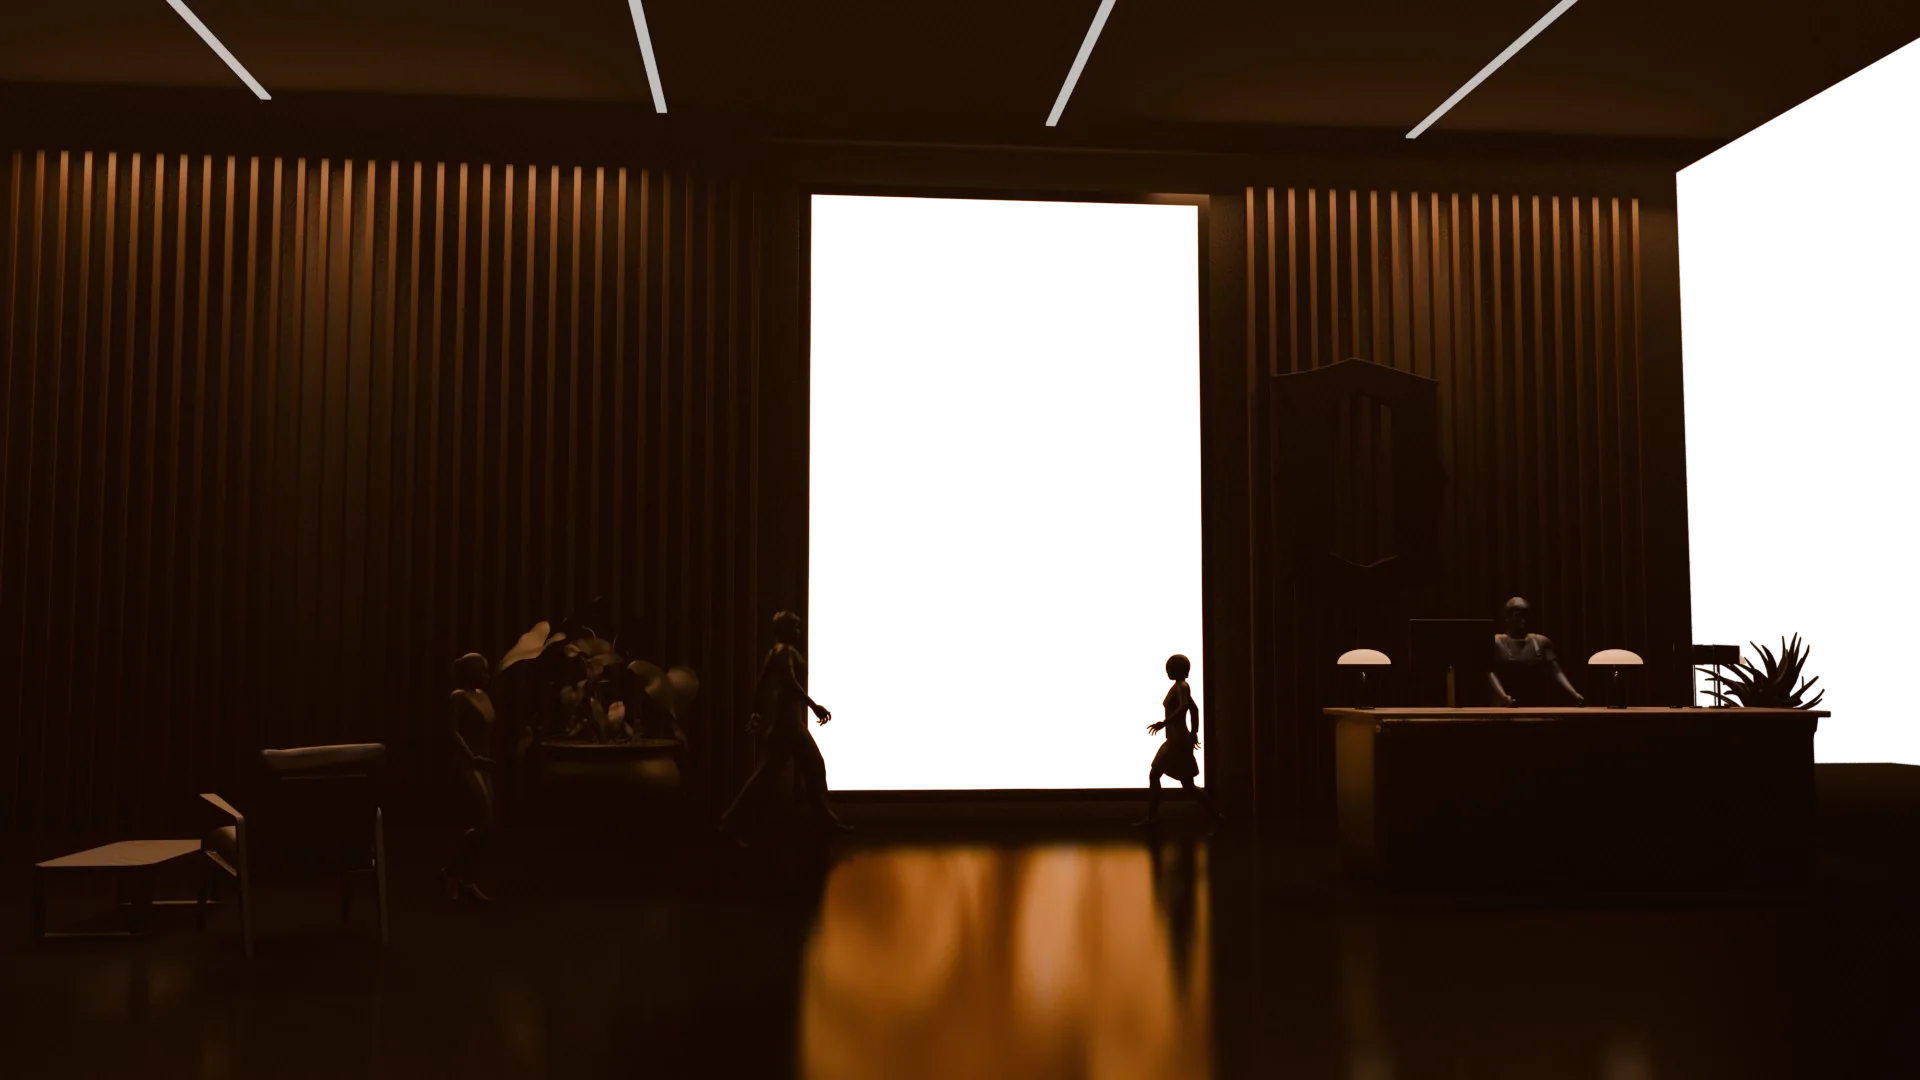
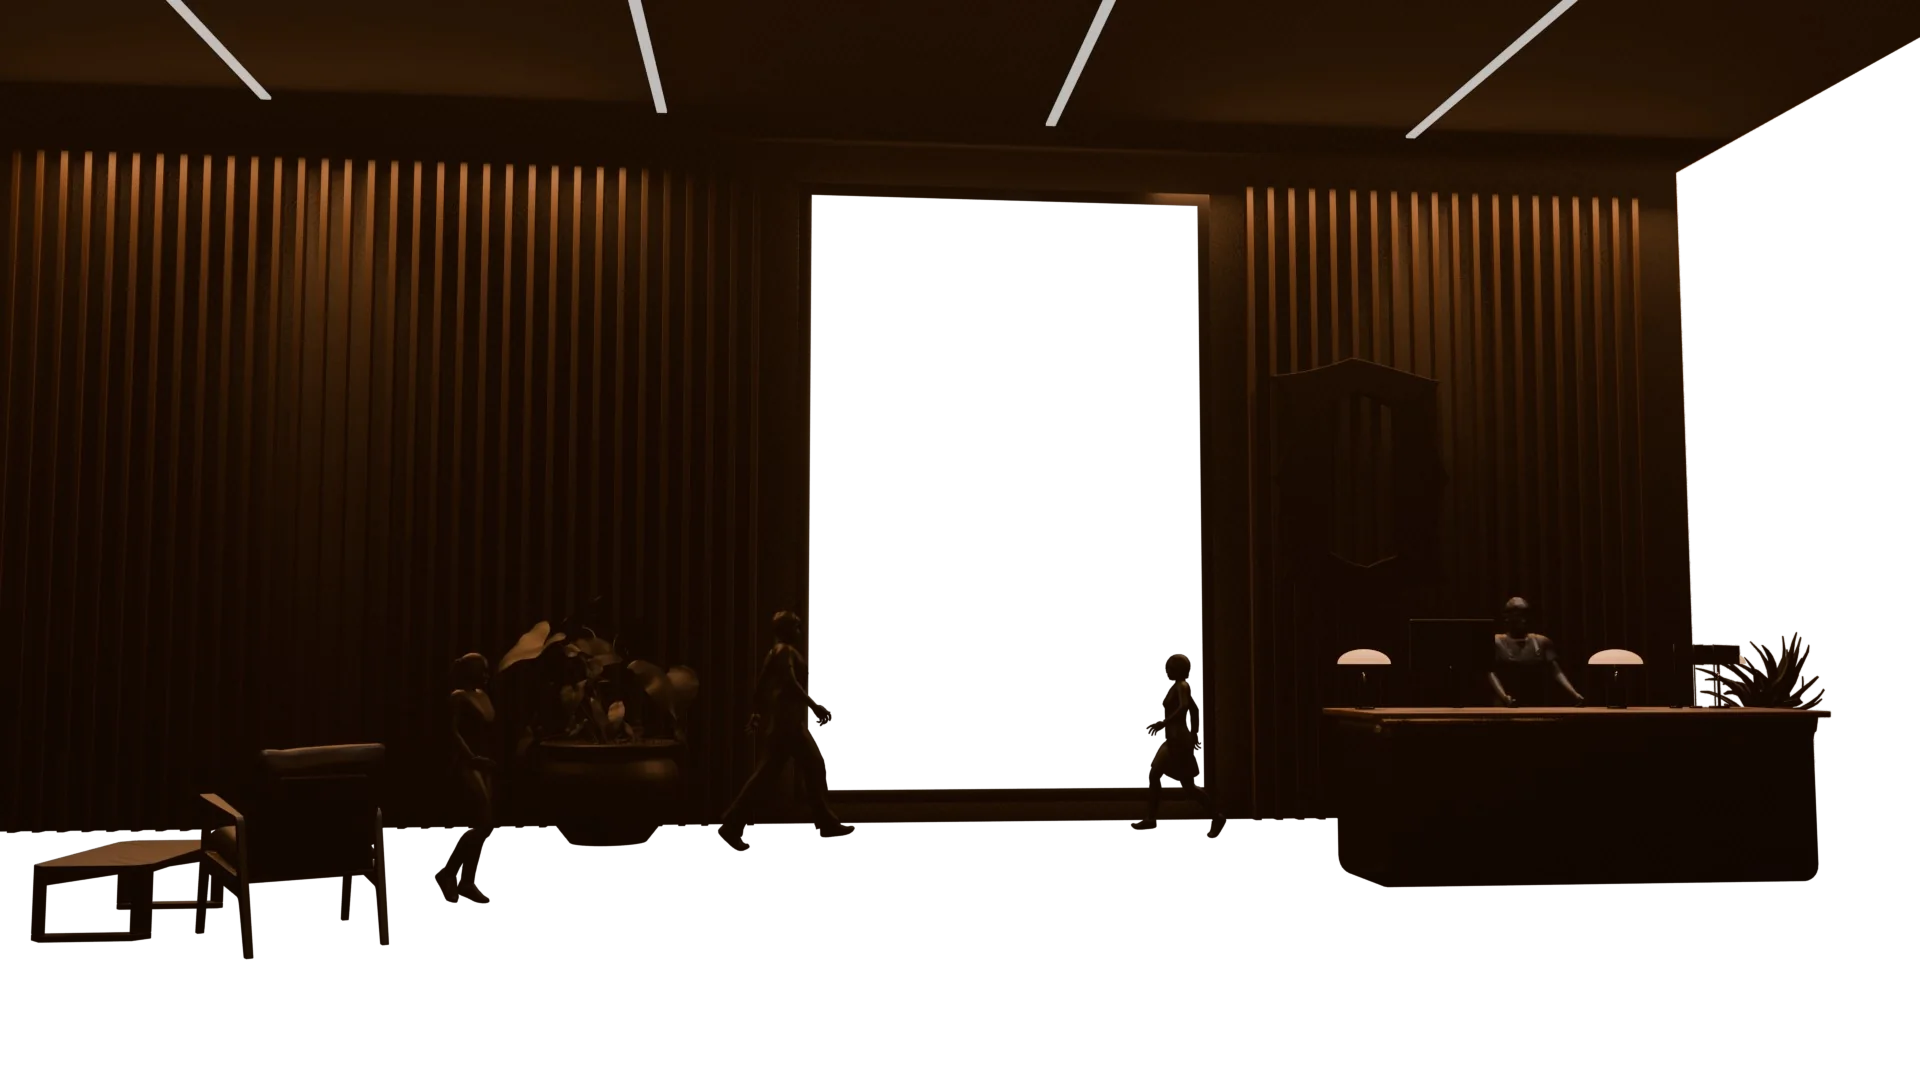
feat(venues): live floor reflection in the lobby; preload live screens so venues never arrive as stills
Claude-Session: https://claude.ai/code/session_01EeQ8xLkpjy8cAAtVKp7fEn

Changed region(s): [[0.0, 0.6417, 1.0, 1.0], [0.6875, 0.6722, 0.7188, 0.7333], [0.4062, 0.6417, 0.4375, 0.6722]]

diff --git a/src/components/sections/venue-stage.tsx b/src/components/sections/venue-stage.tsx
@@ -12,6 +12,8 @@ import { cn } from "@/lib/utils"
 const IMG_W = 1920
 const IMG_H = 1080
 /** Bounds for the box a work renders into before it is warped onto its screen. */
+/** Live screens mount this far ahead of the viewport, so they are drawn before they are seen. */
+const PRELOAD = "150% 0px"
 const MIN_W = 160
 const MAX_W = 960
 
@@ -100,7 +102,7 @@ function useSize<T extends HTMLElement>() {
   return [ref, size] as const
 }
 
-type ScreenGeom = { w: number; h: number; matrix: string; inverse: M3 }
+type ScreenGeom = { w: number; h: number; matrix: string; inverse: M3; reflection?: string }
 
 /** Size and placement of every screen of a venue in the current container. */
 function screenGeometry(venue: Venue, size: [number, number]): ScreenGeom[] {
@@ -111,7 +113,14 @@ function screenGeometry(venue: Venue, size: [number, number]): ScreenGeom[] {
     const w = Math.round(Math.min(MAX_W, Math.max(MIN_W, span * 1.2)))
     const h = Math.round(Math.min(MAX_W * 1.5, w / sc.aspect))
     const t = quadHomography(w, h, pts)
-    return { w, h, matrix: quadMatrix(w, h, pts), inverse: adj(t) }
+    const mirror = sc.reflection?.map(([u, v]) => coverPoint(u, v, size[0], size[1]))
+    return {
+      w,
+      h,
+      matrix: quadMatrix(w, h, pts),
+      inverse: adj(t),
+      reflection: mirror && quadMatrix(w, h, mirror),
+    }
   })
 }
 
@@ -155,7 +164,9 @@ export function VenueStage({
   const motion = useMotion()
   const [ref, size] = useSize<HTMLDivElement>()
   const pointer = useRef<WorkPointer>({ x: 0, y: 0, on: false })
-  const geom = useMemo(() => (size ? screenGeometry(venues[active]!, size) : null), [size, active])
+  // Geometry for every venue, so neighbours can be mounted ahead of time.
+  const geoms = useMemo(() => (size ? venues.map((v) => screenGeometry(v, size)) : null), [size])
+  const geom = geoms?.[active] ?? null
 
   useEffect(() => {
     if (!motion || !geom) return
@@ -201,16 +212,59 @@ export function VenueStage({
             loading={i === 0 ? "eager" : "lazy"}
             decoding="async"
           />
-          {motion && geom && i === active && (
+          {/* The venue on show and its neighbours keep live layers mounted (only the one on show
+              animates), so a scene never arrives with a still where its live screens should be. */}
+          {motion && geoms && Math.abs(i - active) <= 1 && (
             <>
+              {v.base && (
+                // eslint-disable-next-line @next/next/no-img-element
+                <img
+                  src={v.base}
+                  alt=""
+                  className="absolute inset-0 size-full object-cover"
+                  decoding="async"
+                />
+              )}
+              {/* Live floor reflections: the same field, mirrored, blurred and fading away. */}
+              {v.screens.map((sc, k) =>
+                geoms[i]![k]!.reflection ? (
+                  <div
+                    key={`${sc.name}-reflection`}
+                    className="absolute top-0 left-0 origin-top-left mix-blend-screen"
+                    style={{
+                      width: geoms[i]![k]!.w,
+                      height: geoms[i]![k]!.h,
+                      transform: geoms[i]![k]!.reflection,
+                      filter: "blur(14px) brightness(1.5) saturate(1.15)",
+                      opacity: 0.7,
+                      // Fades with distance from the screen, and softly at the sides.
+                      maskImage:
+                        "linear-gradient(to bottom, transparent 35%, black 100%), linear-gradient(to right, transparent, black 18%, black 82%, transparent)",
+                      maskComposite: "intersect",
+                    }}
+                  >
+                    <GenerativeWork
+                      work={sc.work}
+                      seed={v.seed}
+                      brandColors={v.colors}
+                      domain={sc.domain}
+                      pointer={i === active ? pointer : undefined}
+                      animate={i === active}
+                      preloadMargin={PRELOAD}
+                      poster={false}
+                      className="size-full bg-transparent"
+                    />
+                  </div>
+                ) : null,
+              )}
               {v.screens.map((sc, k) => (
                 <div
                   key={sc.name}
                   className="absolute top-0 left-0 origin-top-left saturate-125"
                   style={{
-                    width: geom[k]!.w,
-                    height: geom[k]!.h,
-                    transform: geom[k]!.matrix,
+                    width: geoms[i]![k]!.w,
+                    height: geoms[i]![k]!.h,
+                    transform: geoms[i]![k]!.matrix,
                     filter: `brightness(${1.5 * sc.dim})`,
                   }}
                 >
@@ -219,8 +273,11 @@ export function VenueStage({
                     seed={v.seed}
                     brandColors={v.colors}
                     domain={sc.domain}
-                    pointer={pointer}
-                    className="size-full bg-background"
+                    pointer={i === active ? pointer : undefined}
+                    animate={i === active}
+                    preloadMargin={PRELOAD}
+                    poster={false}
+                    className="size-full bg-transparent"
                   />
                 </div>
               ))}

diff --git a/src/components/works/generative-work.tsx b/src/components/works/generative-work.tsx
@@ -33,6 +33,10 @@ export type GenerativeWorkProps = {
   domain?: WorkDomain
   /** React to a pointer given in field coordinates. */
   pointer?: { current: WorkPointer | null }
+  /** How far ahead of the viewport the canvas mounts (IntersectionObserver rootMargin). */
+  preloadMargin?: string
+  /** Show the gradient poster until WebGL is ready. Off where something else shows through. */
+  poster?: boolean
   className?: string
 }
 
@@ -45,11 +49,13 @@ export function GenerativeWork({
   animate = true,
   domain,
   pointer,
+  preloadMargin,
+  poster = true,
   className,
 }: GenerativeWorkProps) {
   const def = works[work]
   const motion = useMotion()
-  const [ref, { inView, seen }] = useVisibility<HTMLDivElement>()
+  const [ref, { inView, seen }] = useVisibility<HTMLDivElement>(preloadMargin)
   const webgl = useWebGL()
   const [ready, setReady] = useState(false)
 
@@ -66,10 +72,12 @@ export function GenerativeWork({
       className={cn("relative overflow-hidden bg-muted", className)}
     >
       {/* Poster: shown until WebGL is ready, and as the fallback when it is unavailable. */}
-      <div
-        aria-hidden
-        className="absolute inset-0 bg-[radial-gradient(ellipse_at_30%_20%,var(--gen-2),transparent_60%),radial-gradient(ellipse_at_80%_80%,var(--gen-3),transparent_55%)] opacity-40"
-      />
+      {poster && (
+        <div
+          aria-hidden
+          className="absolute inset-0 bg-[radial-gradient(ellipse_at_30%_20%,var(--gen-2),transparent_60%),radial-gradient(ellipse_at_80%_80%,var(--gen-3),transparent_55%)] opacity-40"
+        />
+      )}
       {showCanvas && (
         <div className="absolute inset-0">
           <ShaderCanvas

diff --git a/src/content/venues.ts b/src/content/venues.ts
@@ -19,10 +19,15 @@ export type VenueScreen = {
   domain: { o: [number, number]; u: [number, number]; v: [number, number] }
   /** 0..1 brightness, for surfaces that should stay quieter (floors). */
   dim: number
+  /** The screen mirrored in a glossy floor (image space, TL, TR, BR, BL of the mirrored screen). */
+  reflection?: [number, number][]
 }
 
 export type Venue = {
+  /** The still with rendered screens: motion off, solution pages. */
   image: string
+  /** The still under live screens, when it differs (e.g. no baked floor reflection). */
+  base?: string
   front: string
   seed: number
   colors: (typeof venuePalettes)[number]
@@ -92,6 +97,7 @@ export const venues: Venue[] = [
   },
   {
     image: "/venues/scene-1.webp",
+    base: "/venues/scene-1-base.webp",
     front: "/venues/scene-1-front.webp",
     seed: 21,
     colors: venuePalettes[1]!,
@@ -108,6 +114,12 @@ export const venues: Venue[] = [
         aspect: 0.6667,
         domain: { o: [-0.1333, 0.1], u: [1.2, 0.0], v: [0.0, 1.8] },
         dim: 1,
+        reflection: [
+          [0.41796, 1.38298],
+          [0.6312, 1.3633],
+          [0.62754, 0.79061],
+          [0.42031, 0.79516],
+        ],
       },
     ],
   },

diff --git a/docs/decisions/009-venue-stills.md b/docs/decisions/009-venue-stills.md
@@ -20,3 +20,8 @@
 - Each screen has a `domain`: its place in a field shared by the whole venue. Walls are unfolded around the room (floor toward the camera), so the museum reads as one 360° projection instead of separate planes (`uDomOn/uDomO/uDomU/uDomV` in the shader contract).
 - The cursor bends the field (`uPointer`, `uPointerAmt`). The page maps it from screen space into field coordinates through the inverse of each screen's homography, so a swirl near a wall edge carries over onto the next wall.
 - Only the venue on show mounts WebGL, so the page holds at most four canvases. Each canvas renders at about its on-screen size.
+
+## Update 2026-10-14 — live floor reflection, preloading
+
+- Lobby: the baked floor reflection is gone. The base still is rendered with the screen off and the floor cut out of the front layer. A mirrored copy of the screen's live work (the screen's corners mirrored in the floor, projected in Blender) sits on the floor, blurred, blended with `screen` and fading with distance. It moves with the content and the cursor.
+- Preloading: live screens of the venue on show and both neighbours stay mounted (only the one on show animates), and they mount 1.5 viewports before the section. A venue never arrives showing its still first. The page holds at most ~9 canvases. Screens have no gradient poster: until WebGL is ready the rendered screen shows through.
